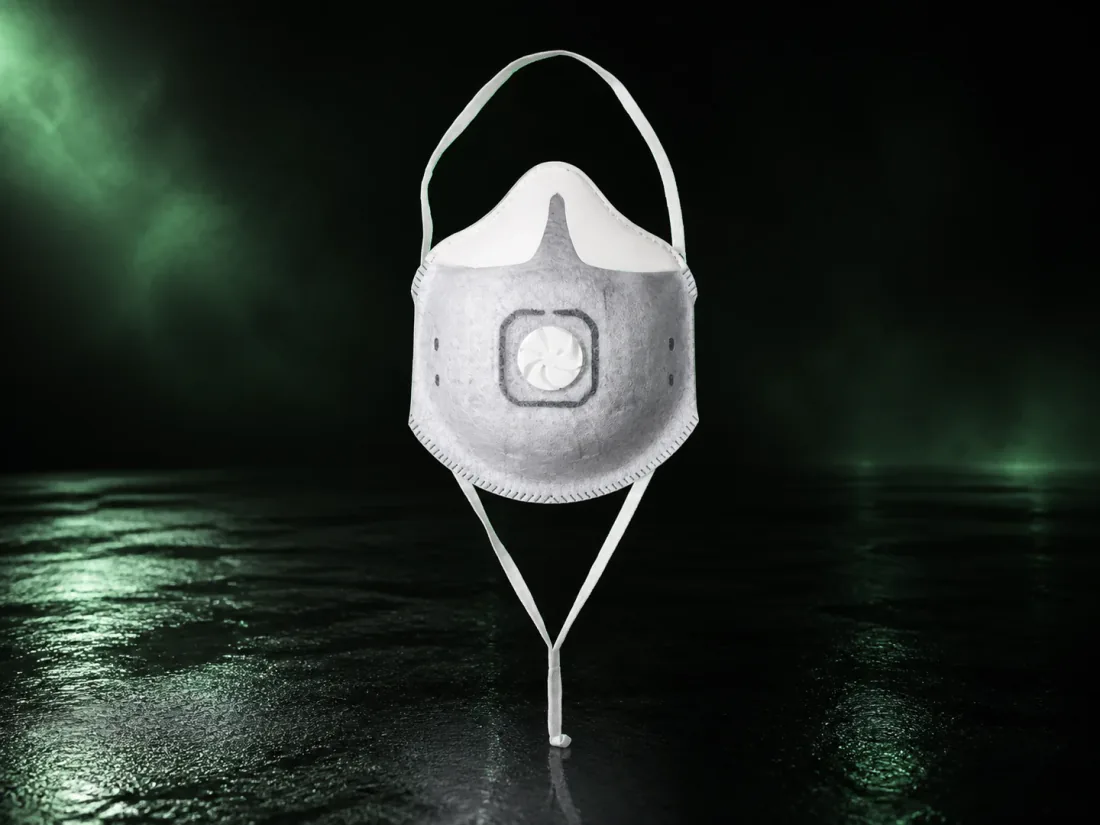
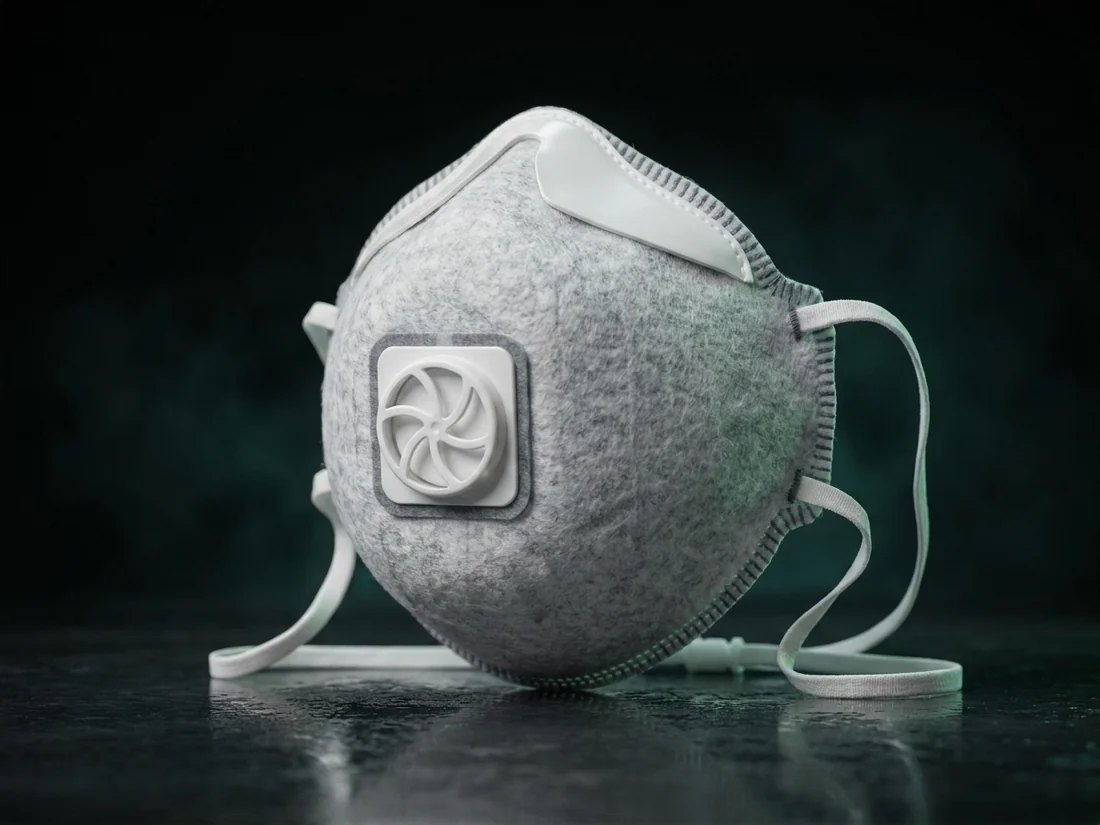
Блок о поставщике, манифест в масштабе Alltrade, нижняя панель убрана
Добавлен блок «Кто отгружает»: цифры компании дословно с alltrade-ltd.kz
(10+ лет, 4 филиала, 9 категорий, 1 договор), головной офис, БИН, ссылка
на профиль поставщика. Пункт в меню.

Манифест ПДК переведён в масштаб первого экрана: числа 4/12/50 выросли
до 4.4 / 7.6 / 11.4 rem, строки со ступенчатыми отступами, воздух вокруг
блока 72-168 px. Раньше блок читался мелким и тесным.

Убрана нижняя мобильная панель «Позвонить | WhatsApp» вместе со стилями
и скриптом - звонок и WhatsApp остаются в шапке.

Спец-маски FR 3220 и FR 3230 заменены на нашу съёмку.
Подписи цифр линейки переписаны без сокращений через двоеточие.

diff --git a/index.html b/index.html
@@ -118,18 +118,14 @@
   ::selection{background:rgba(50,100,80,.22);color:var(--ink)}
   .hero ::selection,#price ::selection,.foot ::selection,.nav ::selection,
   .m--spec ::selection,.docs-cta ::selection,.geo ::selection,.pick-foot ::selection,
-  .mbar ::selection,.f-alt ::selection{
-    background:var(--brand-lift);color:#0A0C0B;
-  }
+  
   /* фокус виден всегда: на светлом - фирменный, на тёмном острове - белый */
   :focus-visible{outline:2px solid var(--brand);outline-offset:3px;border-radius:4px}
   /* main получает фокус только программно, рамку вокруг всей страницы рисовать не нужно */
   main:focus,main:focus-visible{outline:none}
   .hero :focus-visible,#price :focus-visible,.foot :focus-visible,.nav :focus-visible,
   .m--spec:focus-visible,.docs-cta :focus-visible,.pick-foot :focus-visible,
-  .mbar :focus-visible,.f-alt :focus-visible{
-    outline-color:#fff;
-  }
+  
 
   .display{
     font-family:'Archivo',sans-serif;font-stretch:125%;font-weight:900;
@@ -536,6 +532,40 @@
     .stat--brand,.stat--brand + .stat{border-top-color:var(--brand)}
   }
 
+
+  /* ---------- кто отгружает ---------- */
+  .who{
+    background:var(--panel);border:1px solid var(--line);border-radius:var(--r-l);
+    padding:clamp(24px,3vw,48px);
+    box-shadow:0 1px 2px rgba(16,20,24,.05),0 14px 34px rgba(16,20,24,.08);
+  }
+  .who-head{display:grid;grid-template-columns:1.15fr .85fr;gap:clamp(20px,3vw,48px);align-items:end}
+  .who-head h2{font-size:var(--t-h2)}
+  .who-head .kick{display:block;font-family:'IBM Plex Mono',monospace;font-size:11px;letter-spacing:var(--ls-key);text-transform:uppercase;color:var(--brand);margin-bottom:12px}
+  .who-lead{color:var(--ink-soft);font-size:15px;line-height:1.6;max-width:52ch}
+  .who-facts{
+    list-style:none;display:grid;grid-template-columns:repeat(4,1fr);gap:0;
+    margin:clamp(24px,3vw,40px) 0 0;border-top:var(--hair,1px) solid var(--line);
+  }
+  .who-facts li{padding:clamp(18px,2vw,26px) clamp(14px,1.6vw,22px) 0;border-left:var(--hair,1px) solid var(--line)}
+  .who-facts li:first-child{border-left:0;padding-left:0}
+  .who-facts b{
+    display:block;font-family:'Archivo',sans-serif;font-stretch:125%;font-weight:900;
+    font-size:clamp(2rem,3.4vw,3rem);line-height:.95;font-variant-numeric:tabular-nums;margin-bottom:8px;
+  }
+  .who-facts span{display:block;color:var(--ink-soft);font-size:13.5px;line-height:1.45}
+  .who-foot{
+    display:flex;justify-content:space-between;gap:20px;flex-wrap:wrap;
+    margin-top:clamp(20px,2.4vw,30px);padding-top:16px;border-top:var(--hair,1px) solid var(--line);
+    color:var(--mute);
+  }
+  .who-more{color:var(--brand)}
+  @media (max-width:900px){
+    .who-head{grid-template-columns:1fr;gap:14px}
+    .who-facts{grid-template-columns:1fr 1fr}
+    .who-facts li{border-left:0;border-top:var(--hair,1px) solid var(--line);padding-left:0}
+    .who-facts li:nth-child(2){border-left:0}
+  }
   /* ---------- модельный ряд ---------- */
   .m-bar{display:flex;justify-content:space-between;align-items:flex-end;gap:20px 28px;flex-wrap:wrap;margin-bottom:clamp(16px,2vw,24px)}
 
@@ -970,86 +1000,44 @@
   @media (max-width:900px){.foot-top{flex-direction:column;align-items:flex-start}}
   @media (max-width:760px){.foot{margin-inline:0;padding-inline:var(--pad);border-radius:0}.foot-bottom{flex-direction:column;align-items:flex-start;gap:12px;padding-bottom:34px}}
 
-  /* ---------- мобильная панель связи ----------
-     одна плавающая сущность на мобильном: звонок и WhatsApp равными долями.
-     над заявкой и подвалом уходит вниз - там свои кнопки, перекрывать их нельзя */
-  .mbar{
-    display:none;position:fixed;left:0;right:0;bottom:0;z-index:70;
-    gap:8px;padding:8px 12px calc(8px + env(safe-area-inset-bottom,0px));
-    background:rgba(10,12,11,.96);border-top:1px solid rgba(255,255,255,.12);
-    -webkit-backdrop-filter:blur(18px);backdrop-filter:blur(18px);
-    opacity:0;pointer-events:none;transform:translateY(100%);
-    transition:opacity var(--d-2) var(--e),transform var(--d-2) var(--e);
-  }
-  .mbar.is-on{opacity:1;pointer-events:auto;transform:none}
-  .mbar a{
-    display:inline-flex;align-items:center;justify-content:center;gap:8px;min-height:52px;
-    border-radius:var(--r-m);color:#fff;
-    font-family:'IBM Plex Mono',monospace;font-size:11px;letter-spacing:var(--ls-ui);text-transform:uppercase;
-    transition:background var(--d-1) var(--e);
-  }
-  .mbar svg{width:16px;height:16px;flex:none}
-  .mbar-tel{border:1px solid rgba(255,255,255,.35)}
-  .mbar-tel:active{background:rgba(255,255,255,.14)}
-  .mbar-wa{background:var(--brand);border:1px solid var(--brand)}
-  .mbar-wa:active{background:var(--brand-deep)}
-  @media (max-width:760px){.mbar{display:grid;grid-template-columns:1fr 1fr}}
+  
+  
+  
+  
+  
+  
+  
+  
+  
+  @media (max-width:760px){}
 
-  /* ---------- манифест: типографическая пауза между регистрами ----------
-     ни плашек, ни теней, ни рамок - единственное место, где страница набирает дыхание */
-  .mf{padding-block:clamp(56px,9vw,var(--gap-l))}
-  .mf-k{display:block;color:var(--brand);letter-spacing:var(--ls-key);margin-bottom:clamp(18px,2.4vw,32px)}
-  .mf-scale{display:flex;flex-direction:column;gap:clamp(4px,.6vw,10px)}
-  /* кегль числа = величина, которую оно называет: три строки образуют физическую шкалу */
+  /* ---------- манифест: шкала ПДК ---------- */
+  .mf{padding-block:clamp(72px,11vw,168px)}
+  .mf-k{display:block;color:var(--brand);margin-bottom:clamp(22px,3vw,40px)}
+  .mf-scale{display:flex;flex-direction:column;gap:clamp(6px,1vw,14px)}
   .mf-row{
-    display:flex;align-items:baseline;flex-wrap:wrap;gap:0 .32em;
-    font-family:'Archivo',sans-serif;font-stretch:125%;font-weight:800;
-    text-transform:uppercase;line-height:1;letter-spacing:-.005em;color:var(--ink-soft);
-    font-size:clamp(14px,1.5vw,21px);
+    display:flex;align-items:baseline;gap:.32em;flex-wrap:wrap;
+    font-family:'Archivo',sans-serif;font-stretch:125%;font-weight:800;text-transform:uppercase;
+    color:#8F969C;line-height:1;letter-spacing:.01em;
+    font-size:clamp(1.25rem,3.4vw,2.6rem);
   }
-  .mf-n{
-    font-weight:900;color:var(--ink);font-variant-numeric:tabular-nums;
-    letter-spacing:-.03em;line-height:.88;
-  }
-  /* 4 : 12 : 50 → 40 / 72 / 112 px на 1440, пропорция 1 : 1,8 : 2,8 держится и на телефоне */
-  .mf-n--1{font-size:clamp(16px,2.78vw,40px)}
-  .mf-n--2{font-size:clamp(30px,5vw,72px)}
-  .mf-n--3{font-size:clamp(46px,7.78vw,112px)}
+  .mf-row:nth-child(2){margin-left:clamp(.6em,5vw,2.2em)}
+  .mf-row:nth-child(3){margin-left:clamp(.2em,2.4vw,1em)}
+  .mf-n{font-weight:900;color:var(--ink);font-variant-numeric:tabular-nums;line-height:.8}
+  .mf-n--1{font-size:clamp(2.4rem,6vw,4.4rem)}
+  .mf-n--2{font-size:clamp(3.6rem,10vw,7.6rem)}
+  .mf-n--3{font-size:clamp(5rem,15vw,11.4rem)}
   .mf-ans{
-    margin-top:clamp(26px,3.2vw,46px);font-size:clamp(1.55rem,3.6vw,3.25rem);
-    max-width:20ch;text-wrap:balance;
+    margin-top:clamp(34px,5vw,72px);color:var(--ink);
+    font-size:clamp(1.9rem,5.6vw,4.6rem);line-height:1.02;text-wrap:balance;max-width:18ch;
   }
   .mf-ans em{font-style:normal;color:var(--brand)}
-  .mf-note{margin-top:clamp(14px,1.6vw,20px);color:var(--ink-soft);font-size:15px;line-height:1.5;max-width:46ch}
-  .mf-chk{
-    margin-top:14px;font-family:'IBM Plex Mono',monospace;font-size:12px;line-height:1.7;
-    letter-spacing:.03em;color:var(--ink-soft);max-width:72ch;
-  }
-  .mf-chk b{color:var(--ink);font-weight:500}
-  .mf-link{
-    display:inline-block;margin-top:clamp(18px,2vw,26px);color:var(--brand);
-    font-family:'Archivo',sans-serif;font-stretch:125%;font-weight:800;font-size:13px;
-    letter-spacing:var(--ls-ui);text-transform:uppercase;
-    border-bottom:1px solid rgba(50,100,80,.34);padding-bottom:4px;
-    transition:color var(--d-1) var(--e),border-color var(--d-1) var(--e);
-  }
-  @media (hover:hover){.mf-link:hover{color:var(--brand-deep);border-bottom-color:var(--brand-deep)}}
-  /* манифест 2: цифра та же, знаменатель подменяется на глазах */
-  .mf-u{
-    display:flex;align-items:baseline;flex-wrap:wrap;gap:0 .34em;
-    font-family:'Archivo',sans-serif;font-stretch:125%;text-transform:uppercase;
-    line-height:1;letter-spacing:-.01em;font-variant-numeric:tabular-nums;
-  }
-  .mf-u b{font-weight:900}
-  .mf-u--old{font-weight:800;color:var(--ink-soft);font-size:clamp(20px,3.05vw,44px);margin-bottom:clamp(8px,1vw,14px)}
-  /* разрядка добавляет пробел после последней буквы - линия зачёркивания уезжала за слово */
-  .mf-u--old s{text-decoration:line-through;text-decoration-thickness:1px;letter-spacing:.14em;margin-right:-.14em}
-  .mf-u--new{font-weight:900;color:var(--ink);font-size:clamp(28px,4.45vw,64px)}
-  .mf--unit .mf-ans{font-size:clamp(1.1rem,1.95vw,1.75rem);max-width:32ch}
-  @media (max-width:760px){
-    .mf-ans{max-width:none}
-    .mf-note{font-size:14px}
-    .mf-chk{font-size:11px}
+  .mf-note{margin-top:clamp(20px,2.6vw,34px);color:var(--ink-soft);font-size:15px;line-height:1.55;max-width:48ch}
+  .mf-link{display:inline-block;margin-top:clamp(18px,2.2vw,28px)}
+  @media (max-width:560px){
+    .mf-row{gap:.24em}
+    .mf-row:nth-child(2){margin-left:.5em}
+    .mf-row:nth-child(3){margin-left:.2em}
   }
 
   /* ---------- подбор класса под участок: регистр чертежа ---------- */
@@ -1289,7 +1277,7 @@
       </a>
     <nav aria-label="Разделы сайта">
       <ul class="nav-links">
-        <li><a href="#select">Подбор класса</a></li>
+        <li><a href="#who">О поставщике</a></li><li><a href="#select">Подбор класса</a></li>
         <li><a href="#models">Модельный ряд</a></li>
         <li><a href="#price">Открытый прайс</a></li>
         <li><a href="#docs">Документы</a></li>
@@ -1309,6 +1297,7 @@
       </button>
     </div>
     <div class="nav-drawer" id="drawer">
+      <a href="#who">О поставщике</a>
       <a href="#select">Подбор класса</a>
       <a href="#models">Модельный ряд</a>
       <a href="#price">Открытый прайс</a>
@@ -1378,12 +1367,12 @@
         <div class="stat">
           <span class="k">линейка</span>
           <div class="n">12</div>
-          <div class="l">моделей: две серии и&nbsp;спец-линия с&nbsp;углём</div>
+          <div class="l">моделей в&nbsp;линейке. Две серии и&nbsp;спец-линия с&nbsp;угольным слоем</div>
         </div>
         <div class="stat">
           <span class="k">прайс</span>
           <div class="n">22</div>
-          <div class="l">позиции: десять моделей в&nbsp;двух исполнениях и&nbsp;спец-линия с&nbsp;углём</div>
+          <div class="l">позиции в&nbsp;прайсе. Десять моделей идут в&nbsp;двух исполнениях, две спец-модели&nbsp;— только в&nbsp;PREMIUM</div>
         </div>
         <div class="stat stat--brand">
           <span class="k">нижняя цена</span>
@@ -1407,6 +1396,29 @@
   </section>
 
   <!-- ЭКРАН 3: подбор класса под участок -->
+  <!-- КТО ОТГРУЖАЕТ -->
+  <section id="who" aria-label="Кто поставляет респираторы FAROS">
+    <div class="who rv">
+      <div class="who-head">
+        <span class="kick">Кто отгружает</span>
+        <h2 class="display">Партию собирает ТОО «ALLTRADE-LTD»<em>.</em></h2>
+        <p class="who-lead">Респираторы FAROS - одна из позиций поставщика, который снабжает предприятия
+        средствами защиты целиком: от каски до газоанализатора. Отгрузку, документы и договор ведёт он,
+        а не посредник.</p>
+      </div>
+      <ul class="who-facts">
+        <li><b>10+</b><span>лет на рынке средств защиты и промышленного оборудования</span></li>
+        <li><b>4</b><span>филиала: Алматы, Усть-Каменогорск, Павлодар, Атырау</span></li>
+        <li><b>9</b><span>категорий защиты с одного склада</span></li>
+        <li><b>1</b><span>договор на весь цикл обеспечения предприятия</span></li>
+      </ul>
+      <div class="who-foot">
+        <span class="mono">Головной офис - Усть-Каменогорск · БИН 160 340 027 310 · sale@alltrade-ltd.kz</span>
+        <a class="mono who-more" href="https://alltrade-ltd.kz" target="_blank" rel="noopener">Профиль поставщика - alltrade-ltd.kz →</a>
+      </div>
+    </div>
+  </section>
+
   <section id="select" aria-label="Подбор класса защиты под участок">
 
     <!-- МАНИФЕСТ 1: кегль числа = кратность ПДК, три строки образуют шкалу -->
@@ -1909,6 +1921,7 @@
       </a>
     </div>
     <nav class="foot-nav" aria-label="Разделы в подвале">
+      <a href="#who">О поставщике</a>
       <a href="#select">Подбор класса</a>
       <a href="#models">Модельный ряд</a>
       <a href="#price">Открытый прайс</a>
@@ -1921,17 +1934,6 @@
     <span class="mono"><a href="privacy.html">Политика конфиденциальности</a></span>
   </div>
 </footer>
-
-<div class="mbar" id="mbar">
-  <a class="mbar-tel" href="tel:+77710519449" data-place="нижняя панель">
-    <svg viewBox="0 0 24 24" fill="none" stroke="currentColor" stroke-width="2" stroke-linecap="round" stroke-linejoin="round" aria-hidden="true"><path d="M22 16.9v3a2 2 0 0 1-2.2 2 19.8 19.8 0 0 1-8.6-3.1 19.5 19.5 0 0 1-6-6A19.8 19.8 0 0 1 2.1 4.2 2 2 0 0 1 4.1 2h3a2 2 0 0 1 2 1.7c.1 1 .3 1.9.7 2.8a2 2 0 0 1-.5 2.1L8.1 9.9a16 16 0 0 0 6 6l1.3-1.3a2 2 0 0 1 2.1-.4c.9.3 1.8.6 2.8.7a2 2 0 0 1 1.7 2Z"/></svg>
-    Позвонить
-  </a>
-  <a class="mbar-wa" href="https://wa.me/77710519449" data-place="нижняя панель" target="_blank" rel="noopener">
-    <svg viewBox="0 0 24 24" fill="currentColor" aria-hidden="true"><path d="M12 2a10 10 0 0 0-8.6 15.1L2 22l5-1.3A10 10 0 1 0 12 2Zm5.5 14c-.2.6-1.2 1.2-1.7 1.2-.5.1-1 .1-1.6-.1-.4-.1-.9-.3-1.5-.6-2.6-1.1-4.3-3.8-4.4-4-.1-.2-1-1.4-1-2.6 0-1.2.6-1.8.9-2.1.2-.2.5-.3.7-.3h.5c.2 0 .4 0 .6.5l.8 1.9c.1.2 0 .4-.1.5l-.3.4-.3.3c-.1.1-.2.3-.1.5.1.2.6 1.1 1.4 1.8 1 .9 1.8 1.1 2 1.2.2.1.4.1.5-.1l.7-.8c.2-.2.3-.2.5-.1l1.8.9c.2.1.4.2.4.3.1.2.1.7-.1 1.3Z"/></svg>
-    WhatsApp
-  </a>
-</div>
 
 <script>
 /* ===== настройки: номер WhatsApp и счётчики ===== */
@@ -2089,14 +2091,12 @@ window.FAROS_CONFIG = {
   els.forEach(function(el){ io.observe(el); });
 })();
 
-/* ===== мобильная панель связи: после первого экрана и не поверх заявки ===== */
+
 (function(){
-  var bar=document.getElementById('mbar'); if(!bar)return;
   var ticking=false, nearForm=false;
   function check(){ bar.classList.toggle('is-on', window.scrollY>600 && !nearForm); ticking=false; }
   addEventListener('scroll',function(){ if(!ticking){ requestAnimationFrame(check); ticking=true; } },{passive:true});
-  /* у формы и в подвале свои кнопки связи - панель уходит вниз, чтобы не перекрывать
-     кнопку отправки и контакты подвала */
+  
   var zone=[document.getElementById('contact'),document.querySelector('.foot')].filter(Boolean);
   if('IntersectionObserver' in window && zone.length){
     var seen=new Set();
